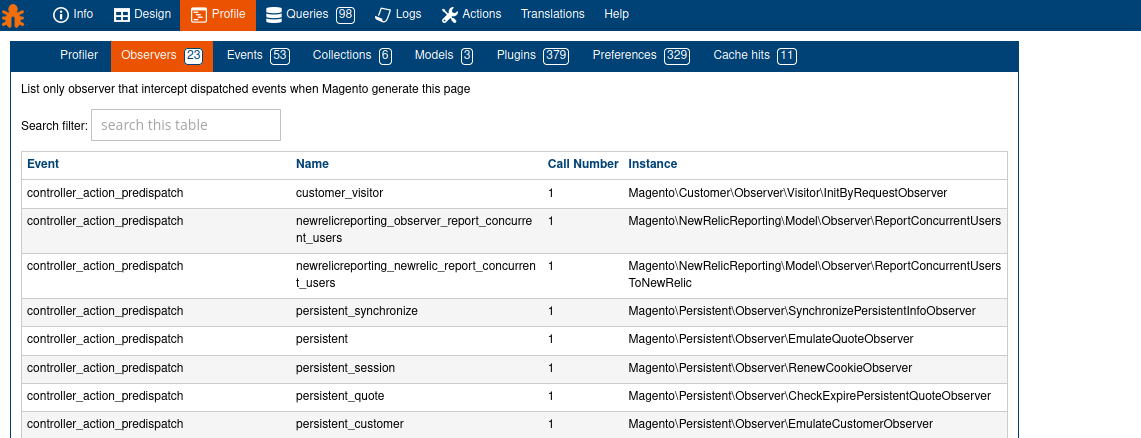
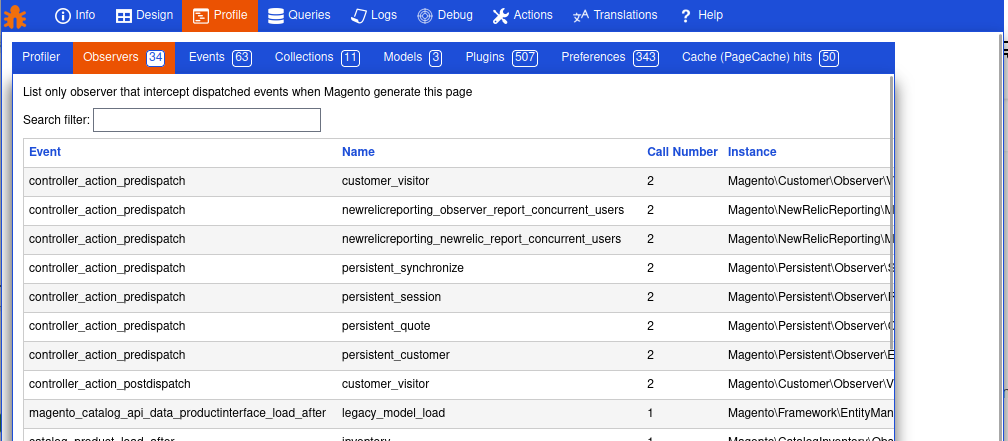
Fix adminhtml render

diff --git a/view/base/web/css/quickdevbar.css b/view/base/web/css/quickdevbar.css
@@ -62,7 +62,7 @@
     z-index: 10000;
     background: var(--qdb-bck) repeat scroll 0 0;
     text-align: left;
-    font-family: "Helvetica Neue", Helvetica, "Segoe UI", Arial, freesans, sans-serif;
+    font-family: Arial, "Helvetica Neue", Helvetica, "Segoe UI", freesans, sans-serif;
     font-size: 12px;
     color:var(--qdb-ft);
 

diff --git a/Helper/Data.php b/Helper/Data.php
@@ -1,7 +1,8 @@
 <?php
 namespace ADM\QuickDevBar\Helper;
 
-use Magento\Customer\Model\Session;
+
+use Magento\Framework\Session\Generic as QdbSession;
 use Magento\Framework\App\Config\ScopeConfigInterface;
 use Magento\Framework\App\Filesystem\DirectoryList;
 use Magento\Framework\App\State;
@@ -42,7 +43,8 @@ class Data extends \Magento\Framework\App\Helper\AbstractHelper
     /**
      * @var Session
      */
-    private $session;
+    private $qdbSession;
+
     private array $ideList;
 
     /**
@@ -55,7 +57,7 @@ class Data extends \Magento\Framework\App\Helper\AbstractHelper
         \Magento\Framework\Filesystem $filesystem,
         array $ideList,
         State $appState,
-        Session $session
+        QdbSession $qdbSession
     ) {
         parent::__construct($context);
         $this->cacheFrontendPool = $cacheFrontendPool;
@@ -64,7 +66,7 @@ class Data extends \Magento\Framework\App\Helper\AbstractHelper
 
         $this->filesystem = $filesystem;
         $this->appState = $appState;
-        $this->session = $session;
+        $this->qdbSession = $qdbSession;
         $this->ideList = $ideList;
     }
 
@@ -316,8 +318,8 @@ class Data extends \Magento\Framework\App\Helper\AbstractHelper
 
     protected function getWrapperBaseFilename($ajax = false)
     {
-        $sessionId = $this->appState->getAreaCode().$this->session->getSessionId();
-        return  'qdb_register_' . (!$ajax ? 'std' : 'xhr') . '_' . $sessionId;
+        $qdbSessionId = $this->appState->getAreaCode().$this->qdbSession->getSessionId();
+        return  'qdb_register_' . (!$ajax ? 'std' : 'xhr') . '_' . $qdbSessionId;
     }
 
 
@@ -344,7 +346,7 @@ class Data extends \Magento\Framework\App\Helper\AbstractHelper
         }
 
         if(empty($wrapperFiles)) {
-            throw new LocalizedException(__('No files for wrapper'));
+            throw new LocalizedException(__('No files for wrapper'.$filename));
         }
 
         if(count($wrapperFiles)>1 && $ajax) {
@@ -372,7 +374,7 @@ class Data extends \Magento\Framework\App\Helper\AbstractHelper
 //        /** @var \SplFileInfo $fileInfo */
 //        foreach (new \DirectoryIterator($this->getQdbTempDir()) as $fileInfo) {
 //            if($fileInfo->isFile()) {
-//                //TODO: unlink only files starting with 'qdb_register_' . $sessionId
+//                //TODO: unlink only files starting with 'qdb_register_' . $qdbSessionId
 //                //unlink($fileInfo->getPathname());
 //            }
 //        }
@@ -386,7 +388,7 @@ class Data extends \Magento\Framework\App\Helper\AbstractHelper
         /** @var \SplFileInfo $fileInfo */
         foreach (new \DirectoryIterator($this->getQdbTempDir()) as $fileInfo) {
             if($fileInfo->isFile() && time() - $fileInfo->getMTime() > 20) {
-                //TODO: unlink only files starting with 'qdb_register_' . $sessionId
+                //TODO: unlink only files starting with 'qdb_register_' . $qdbSessionId
                 unlink($fileInfo->getPathname());
             }
         }

diff --git a/Observer/UpdateLayoutObserver.php b/Observer/UpdateLayoutObserver.php
@@ -26,6 +26,7 @@ class UpdateLayoutObserver implements ObserverInterface
     public function execute(Observer $observer)
     {
         if(!$this->qdbHelper->isAjaxLoading()) {
+            /** @var \Magento\Framework\View\Layout $layout */
             $layout = $observer->getData('layout');
             $layout->getUpdate()->addHandle('quickdevbar');
         }

diff --git a/doc/Changelog.md b/doc/Changelog.md
@@ -1,5 +1,13 @@
 Changelog: Quick Developer Toolbar for Magento2
 ====================================
+0.3.2
+* Fix adminhtml renderer
+* Add doc screenshots
+
+
+0.3.1
+* Fix the typo in the XML closing tag within the comment, thanks to [hgati](https://github.com/vpietri/magento2-developer-quickdevbar/pull/86)
+
 0.3.0
 * Compatibility Magento 2.4.7 with strict CSP policy 
 * Hyva and Breeze compatibility (vanilla JS)

diff --git a/README.md b/README.md
@@ -59,6 +59,9 @@ The structure of this toolbar is extremely simple you just need to add a new blo
 - Queries Tab
 ![](doc/images/qdb_screen_queries.png)
 
+- Profile Tab
+  ![](doc/images/qdb_screen_dispatch.png)
+
 - Theme chooser
 ![](doc/images/qdb_screen_dark.png)
 
